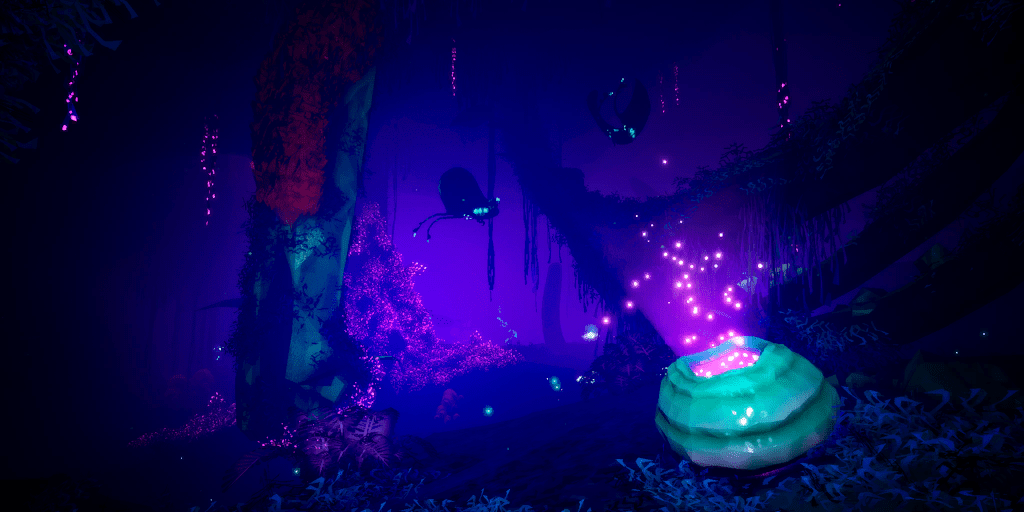
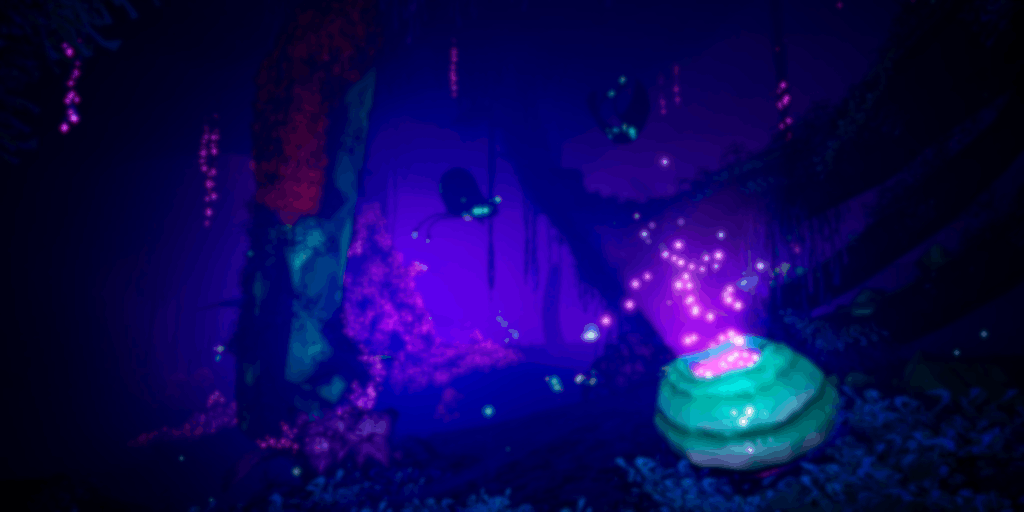
Made background images blurry for better readability

diff --git a/src/components/MissionList.tsx b/src/components/MissionList.tsx
@@ -17,7 +17,7 @@ import MagmaCore from "../assets/biomes/Magma Core.png";
 import RadioactiveExclusionZone from "../assets/biomes/Radioactive Exclusion Zone.png";
 import SaltPits from "../assets/biomes/Salt Pits.png";
 import SandblastedCorridors from "../assets/biomes/Sandblasted Corridors.png";
-import DrgBg from '../assets/drg.jpg'
+import DrgBg from '../assets/drg-blur.jpg'
 import OverallStats from "./OverallStats"
 
 //const itemsPerPage = 10;
